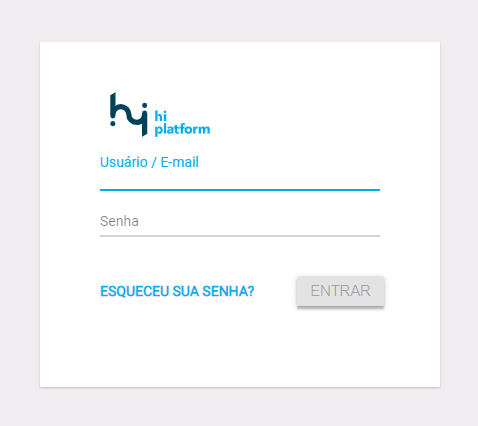
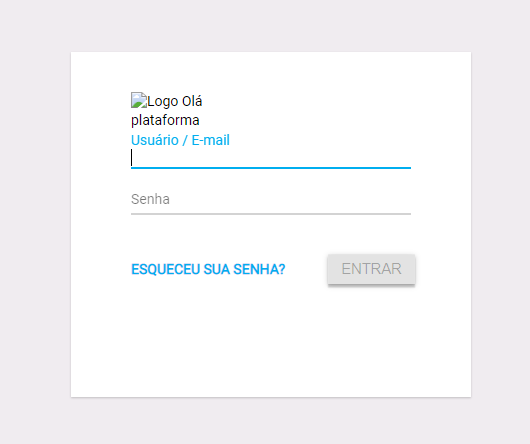
Update copyright

diff --git a/welcome/welcome.html b/welcome/welcome.html
@@ -5,7 +5,6 @@
     <meta http-equiv="X-UA-Compatible" content="IE=edge" />
     <meta name="viewport" content="width=device-width, initial-scale=1.0" />
     <link rel="stylesheet" href="./welcome.css" />
-    <link rel="shortcut icon" href="../asset/favicon.ico" type="image/x-icon" />
     <link rel="preconnect" href="https://fonts.googleapis.com" />
     <link rel="preconnect" href="https://fonts.gstatic.com" crossorigin />
     <link
@@ -18,10 +17,10 @@
     <div class="container">
       <div class="containerDescription">
         <div class="logo">
-          <img src="../asset/hi-platform.svg" alt="logo hiplatform" />
+          <img src="" alt="logo olá plataforma" />
         </div>
         <div class="description">
-          <h2>Hi Platform</h2>
+          <h2>Olá Plataforma</h2>
           <p class="onlyDescriptionWelcome">Bem vindo!</p>
         </div>
       </div>

diff --git a/index.html b/index.html
@@ -4,7 +4,6 @@
     <meta charset="UTF-8" />
     <meta http-equiv="X-UA-Compatible" content="IE=edge" />
     <meta name="viewport" content="width=device-width, initial-scale=1.0" />
-    <link rel="shortcut icon" href="./asset/favicon.ico" type="image/x-icon" />
     <link rel="stylesheet" href="./style.css" />
     <link rel="preconnect" href="https://fonts.googleapis.com" />
     <link rel="preconnect" href="https://fonts.gstatic.com" crossorigin />
@@ -18,7 +17,7 @@
     <div class="containerLogin">
       <div class="login">
         <div class="logo">
-          <img src="./asset/hi-platform.svg" alt="Logo Hi platform" />
+          <img src="" alt="Logo Olá plataforma" />
         </div>
         <div class="form">
           <form>

diff --git a/forgot-password/forgot-password.html b/forgot-password/forgot-password.html
@@ -5,7 +5,6 @@
     <meta http-equiv="X-UA-Compatible" content="IE=edge" />
     <meta name="viewport" content="width=device-width, initial-scale=1.0" />
     <link rel="stylesheet" href="./forgot-password.css" />
-    <link rel="shortcut icon" href="../asset/favicon.ico" type="image/x-icon" />
     <link rel="preconnect" href="https://fonts.googleapis.com" />
     <link rel="preconnect" href="https://fonts.gstatic.com" crossorigin />
     <link
@@ -17,7 +16,7 @@
   <body>
     <div class="containerForgotPasword">
       <div class="logo">
-        <img src="../asset/hi-platform.svg" alt="logo hiplatform" />
+        <img src="" alt="Olá Plataforma" />
       </div>
       <div class="main">
         <div class="description">

diff --git a/readme.md b/readme.md
@@ -1,5 +1,5 @@
 <h1 align="center">
-  Login Hi Platform 💻
+  Login Olá Plataforma 💻
 </h1>
 
 <p align="center">
